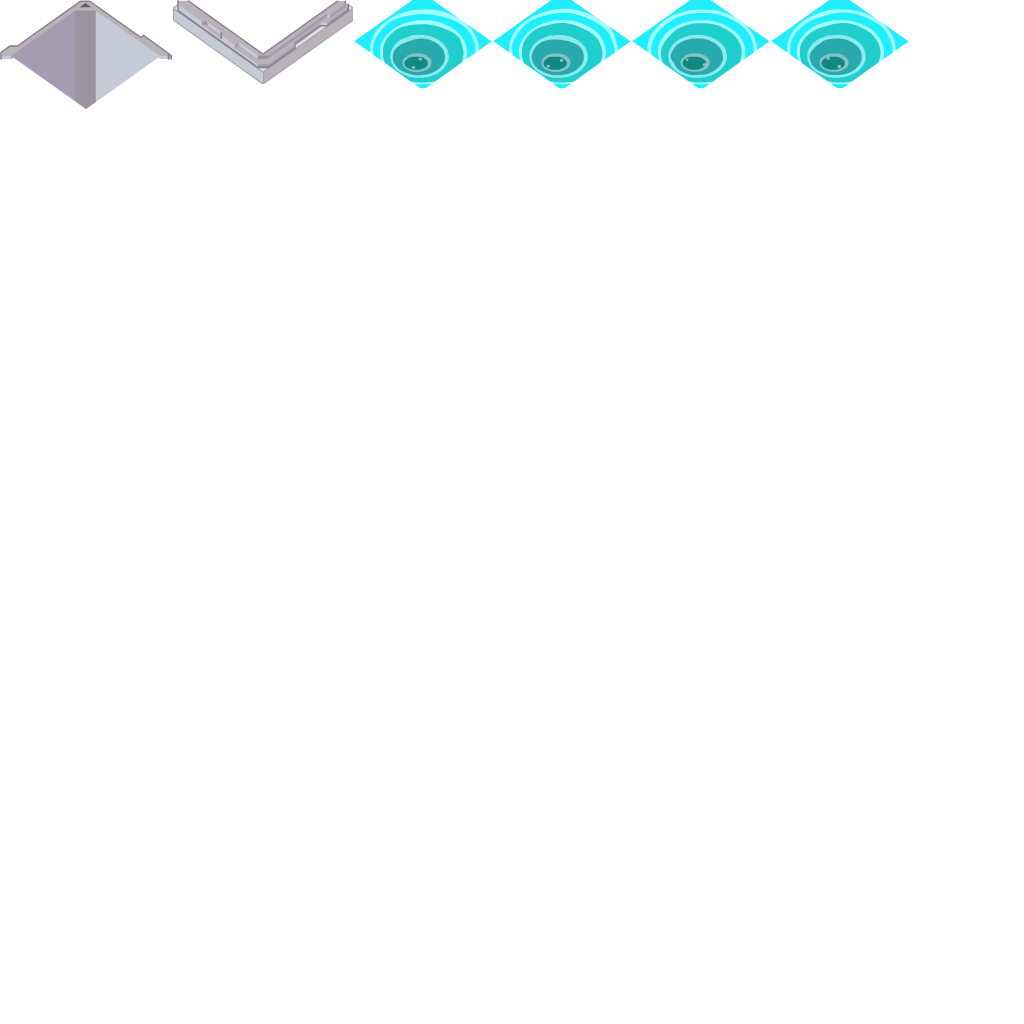
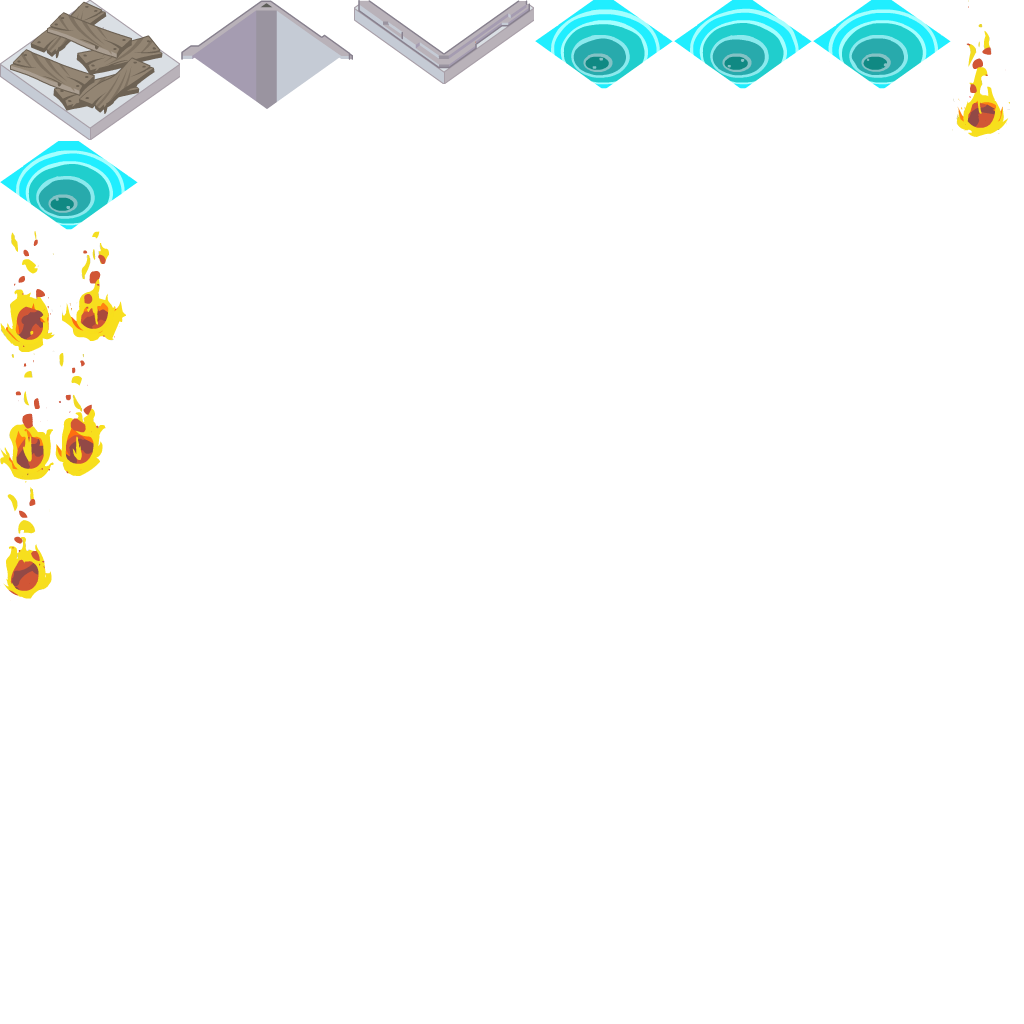
Fire: art.

Changed region(s): [[0.0, 0.0, 1.0, 0.5938]]

diff --git a/Classes/Level/Objects/Fire.cpp b/Classes/Level/Objects/Fire.cpp
@@ -14,34 +14,30 @@ Fire::Fire(Level* level, const cocos2d::Vec2& coordinate) : LevelObject(level, c
 
 void Fire::onAdd()
 {
-    _node = cocos2d::Sprite::createWithSpriteFrameName("button-floor.png");
+    _node = cocos2d::Sprite::createWithSpriteFrameName("fire-floor.png");
     _node->setAnchorPoint(cocos2d::Vec2::ZERO);
     _node->setPosition(_level->getProjector()->coordinateToPoint(_coordinate) + cocos2d::Vec2(0, -12));
-    _node->setLocalZOrder(_level->getProjector()->coordinateToZOrder(_coordinate));
+	_node->setLocalZOrder(_level->getProjector()->coordinateToZOrder(_coordinate) + Level::ITEM_Z_ORDER);
     _level->getStage()->addChild(_node);
     
     _fire1Node = cocos2d::Sprite::create();
-    _fire1Node->setScale(0.5f);
+	_fire1Node->setScale(-1, 1);
     _fire1Node->setAnchorPoint(cocos2d::Vec2(0.5f, 0));
-    _fire1Node->setPosition(_level->getProjector()->coordinateToPoint(_coordinate) + cocos2d::Vec2(30, 86));
-    _fire1Node->setLocalZOrder(_level->getProjector()->coordinateToZOrder(_coordinate) + Level::ITEM_Z_ORDER);
-    _fire1Node->runAction(cocos2d::RepeatForever::create(cocos2d::Animate::create(cocos2d::AnimationCache::getInstance()->getAnimation("splash"))));
-    _level->getStage()->addChild(_fire1Node);
+    _fire1Node->setPosition(cocos2d::Vec2(62, 68));
+	_fire1Node->runAction(cocos2d::RepeatForever::create(cocos2d::Animate::create(cocos2d::AnimationCache::getInstance()->getAnimation("fire1"))));
+	_node->addChild(_fire1Node);
     
     _fire2Node = cocos2d::Sprite::create();
-    _fire2Node->setScale(0.5f);
-    _fire2Node->setAnchorPoint(cocos2d::Vec2(0.5f, 0));
-    _fire2Node->setPosition(_level->getProjector()->coordinateToPoint(_coordinate) + cocos2d::Vec2(126, 98));
-    _fire2Node->setLocalZOrder(_level->getProjector()->coordinateToZOrder(_coordinate) + Level::ITEM_Z_ORDER);
-    _fire2Node->runAction(cocos2d::RepeatForever::create(cocos2d::Animate::create(cocos2d::AnimationCache::getInstance()->getAnimation("splash"))));
-    _level->getStage()->addChild(_fire2Node);
-    
+	_fire2Node->setAnchorPoint(cocos2d::Vec2(0.5f, 0));
+    _fire2Node->setPosition(cocos2d::Vec2(113, 76));
+	_fire2Node->runAction(cocos2d::RepeatForever::create(cocos2d::Animate::create(cocos2d::AnimationCache::getInstance()->getAnimation("fire2"))));
+	_node->addChild(_fire2Node);
+
     _fire3Node = cocos2d::Sprite::create();
-    _fire3Node->setScale(0.5f);
     _fire3Node->setAnchorPoint(cocos2d::Vec2(0.5f, 0));
-    _fire3Node->setPosition(_level->getProjector()->coordinateToPoint(_coordinate) + cocos2d::Vec2(106, 22));
+    _fire3Node->setPosition(_level->getProjector()->coordinateToPoint(_coordinate) + cocos2d::Vec2(92, 17));
     _fire3Node->setLocalZOrder(_level->getProjector()->coordinateToZOrder(_coordinate) + Level::WALL_Z_ORDER);
-    _fire3Node->runAction(cocos2d::RepeatForever::create(cocos2d::Animate::create(cocos2d::AnimationCache::getInstance()->getAnimation("splash"))));
+	_fire3Node->runAction(cocos2d::RepeatForever::create(cocos2d::Animate::create(cocos2d::AnimationCache::getInstance()->getAnimation("fire3"))));
     _level->getStage()->addChild(_fire3Node);
 }
 

diff --git a/Classes/AppDelegate.cpp b/Classes/AppDelegate.cpp
@@ -93,9 +93,9 @@ bool AppDelegate::applicationDidFinishLaunching() {
     preloader->addTask(_loadLevelPack(game, "levels/cclp3.dat", std::vector<char>(hash3, hash3 + 16)));
     
     std::vector<char> highscoreSecret(hash3, hash3 + 16);
-    preloader->addTask([game, highscoreSecret]() {
+	preloader->addTask(std::function<void()>([game, highscoreSecret]() {
         game->setHighscores(HighscoreStorage::create("highscores.sav", highscoreSecret));
-    });
+    }));
     
     auto loadingScene = LoadingScene::create(game, preloader);
     director->runWithScene(loadingScene);

diff --git a/Classes/Common/HighscoreStorage.cpp b/Classes/Common/HighscoreStorage.cpp
@@ -103,7 +103,7 @@ void HighscoreStorage::load()
 					std::vector<HighscoreRecord> records;
 					records.reserve(levelCount);
 
-					for (int j = 0; j < levelCount; i++)
+					for (int j = 0; j < levelCount; j++)
 					{
 						HighscoreRecord record;
                         record.completed = (reader.readInt8() != 0);

diff --git a/Classes/Level/Level.cpp b/Classes/Level/Level.cpp
@@ -19,7 +19,6 @@
 #include "Objects/SwitchWall.h"
 #include "Objects/Teleport.h"
 #include "Objects/Water.h"
-#include "Item.h"
 
 Level* Level::create(cocos2d::Node* stage, LevelHandler* handler)
 {

diff --git a/Classes/Level/Creature.cpp b/Classes/Level/Creature.cpp
@@ -3,8 +3,8 @@
 #include <cocos2d.h>
 
 #include "Level.h"
-#include "Item.h"
 #include "Objects/LevelObject.h"
+#include "Objects/Item.h"
 
 namespace std
 {
